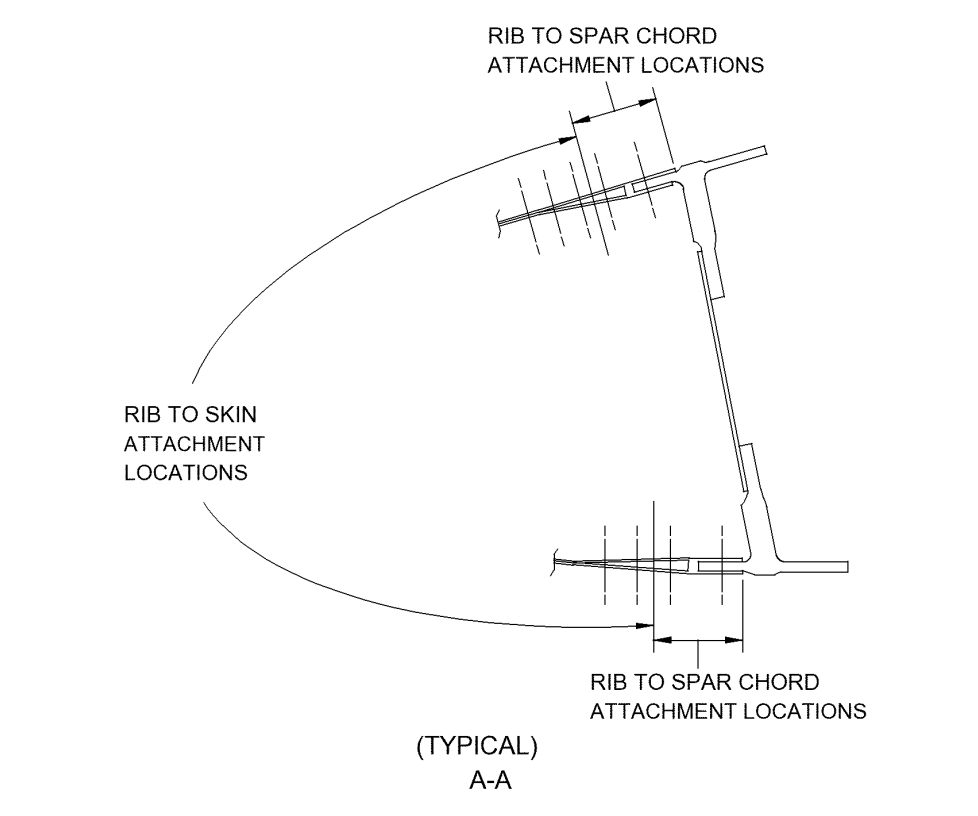
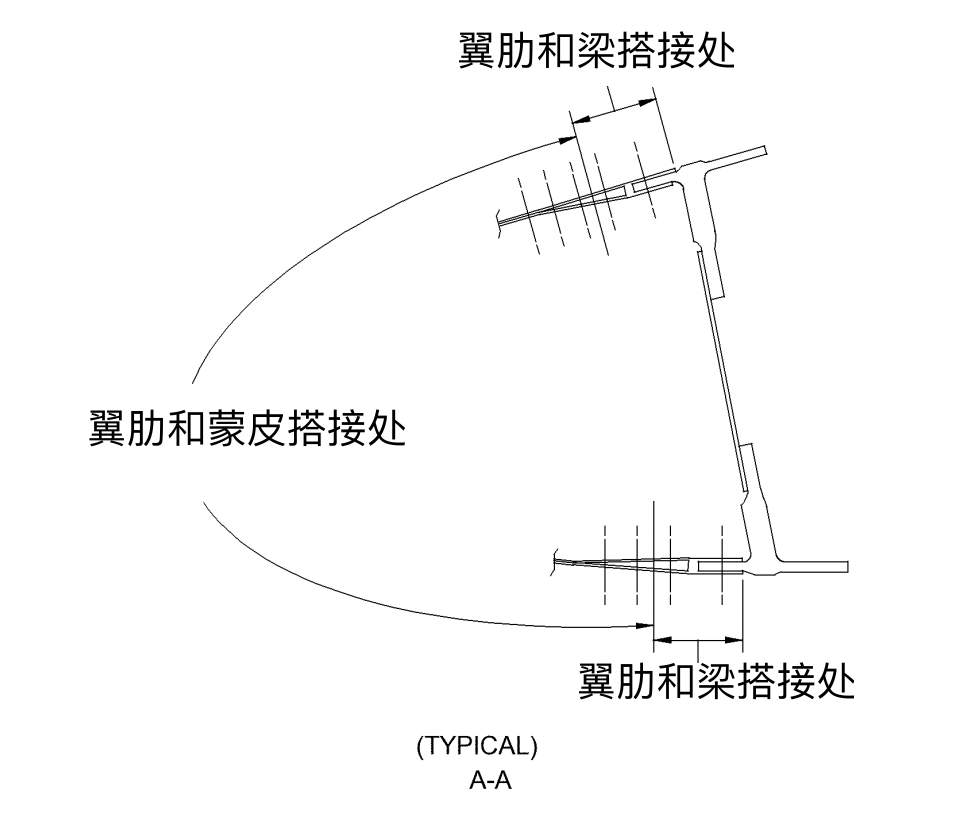
stab finish initially

Changed region(s): [[0.5828, 0.7966, 0.8896, 0.8885], [0.092, 0.4902, 0.4294, 0.6127], [0.4601, 0.0306, 0.7975, 0.0919]]

diff --git a/stablizer.2.html b/stablizer.2.html
@@ -76,6 +76,9 @@
         </div>
     </div>
 
+    <div class="cell_desc">参考：</div>
+    <img src="./images/stablizer/stab-4.png" width="100%" alt="">
+
     <div class="weui-btn-area">
         <a class="weui-btn weui-btn_primary" href="javascript:"  id="checkBtn">检查结果</a>
     </div>
@@ -84,51 +87,73 @@
         <div class="js_dialog" id="area0-dialog" style="opacity: 0; display: none;">
             <div class="weui-mask"></div>
             <div class="weui-dialog">
-                <div class="weui-dialog__bd">AREA0</div>
+                <div class="weui-dialog__bd">超标</div>
                 <div class="weui-dialog__ft">
                     <a href="javascript:;" class="weui-dialog__btn weui-dialog__btn_primary">确认</a>
                 </div>
             </div>
         </div>
         <!--END dialog0-->
-        <!--BEGIN dialog0-->
-        <div class="js_dialog" id="area1-dialog" style="opacity: 0; display: none;">
+        <!--BEGIN dialog1-->
+        <div class="js_dialog" id="area1-good-dialog" style="opacity: 0; display: none;">
             <div class="weui-mask"></div>
             <div class="weui-dialog">
-                <div class="weui-dialog__bd">AREA1</div>
+                <div class="weui-dialog__bd">位于AREA1，且符合标准，可以直接办理允许损伤</div>
                 <div class="weui-dialog__ft">
                     <a href="javascript:;" class="weui-dialog__btn weui-dialog__btn_primary">确认</a>
                 </div>
             </div>
         </div>
-        <!--END dialog0-->
-        <!--BEGIN dialog0-->
-        <div class="js_dialog" id="area2-dialog" style="opacity: 0; display: none;">
+        <!--END dialog1-->
+        <!--BEGIN dialog1-->
+        <div class="js_dialog" id="area1-bad-dialog" style="opacity: 0; display: none;">
             <div class="weui-mask"></div>
             <div class="weui-dialog">
-                <div class="weui-dialog__bd">AREA2</div>
+                <div class="weui-dialog__bd">位于AREA1，但不符合标准，需要依据51-70-01填充凹坑</div>
                 <div class="weui-dialog__ft">
                     <a href="javascript:;" class="weui-dialog__btn weui-dialog__btn_primary">确认</a>
                 </div>
             </div>
         </div>
-        <!--END dialog0-->
-        <!--BEGIN dialog0-->
+        <!--END dialog1-->
+        <!--BEGIN dialog2-->
+        <div class="js_dialog" id="area2-good-dialog" style="opacity: 0; display: none;">
+            <div class="weui-mask"></div>
+            <div class="weui-dialog">
+                <div class="weui-dialog__bd">位于AREA2，如果可以在5000飞行小时或18个月内可以修复，办理允许损伤</div>
+                <div class="weui-dialog__ft">
+                    <a href="javascript:;" class="weui-dialog__btn weui-dialog__btn_primary">确认</a>
+                </div>
+            </div>
+        </div>
+        <!--END dialog2-->
+        <!--BEGIN dialog2-->
+        <div class="js_dialog" id="area2-bad-dialog" style="opacity: 0; display: none;">
+            <div class="weui-mask"></div>
+            <div class="weui-dialog">
+                <div class="weui-dialog__bd">位于AREA2，但不符合标准，需要依据51-70-01填充凹坑</div>
+                <div class="weui-dialog__ft">
+                    <a href="javascript:;" class="weui-dialog__btn weui-dialog__btn_primary">确认</a>
+                </div>
+            </div>
+        </div>
+        <!--END dialog2-->
+        <!--BEGIN dialog3-->
         <div class="js_dialog" id="area3-dialog" style="opacity: 0; display: none;">
             <div class="weui-mask"></div>
             <div class="weui-dialog">
-                <div class="weui-dialog__bd">AREA3</div>
+                <div class="weui-dialog__bd">位于AREA3，需要做以下处理，才可以办理保留：<br/>1.依据51-70-01填补凹坑<br/>使用3M-436胶带密封<br/>3.每400飞行小时检查一次，5000飞行小时或者18个月永久修复</div>
                 <div class="weui-dialog__ft">
                     <a href="javascript:;" class="weui-dialog__btn weui-dialog__btn_primary">确认</a>
                 </div>
             </div>
         </div>
-        <!--END dialog0-->
+        <!--END dialog3-->
         <!--BEGIN dialog0-->
         <div class="js_dialog" id="area4-dialog" style="opacity: 0; display: none;">
             <div class="weui-mask"></div>
             <div class="weui-dialog">
-                <div class="weui-dialog__bd">AREA4</div>
+                <div class="weui-dialog__bd">位于AREA4，需要做以下处理，才可以办理保留：</div>
                 <div class="weui-dialog__ft">
                     <a href="javascript:;" class="weui-dialog__btn weui-dialog__btn_primary">确认</a>
                 </div>

diff --git a/js/stab-on-rib.2.js b/js/stab-on-rib.2.js
@@ -2,8 +2,10 @@
 $(function(){
 
     var $area0Dialog = $('#area0-dialog');
-    var $area1Dialog = $('#area1-dialog');
-    var $area2Dialog = $('#area2-dialog');
+    var $area1GoodDialog = $('#area1-good-dialog');
+    var $area1BadDialog = $('#area1-bad-dialog');
+    var $area2GoodDialog = $('#area2-good-dialog');
+    var $area2BadDialog = $('#area2-bad-dialog');
     var $area3Dialog = $('#area3-dialog');
     var $area4Dialog = $('#area4-dialog');
     
@@ -38,10 +40,18 @@ $(function(){
         console.log("长度："+$length+"英寸\n宽度："+$width+"英寸\n深度："+$depth+"英寸");
         if(($length>=0&&$length<=3)&&($depth<=0.01*$length+0.05)){
             console.log("AREA1");
-            $area1Dialog.fadeIn(200);
+            if($width/$depth >=30){
+                $area1GoodDialog.fadeIn(200);
+            }else{
+                $area1BadDialog.fadeIn(200);
+            }   
         }else if((($length>3&&$length<=6)&&($depth<=1/150*$length+0.06))||(($length>6&&$length<=8)&&($depth<=0.1))){
             console.log("AREA2");
-            $area2Dialog.fadeIn(200);
+            if($width/$depth >=30){
+                $area2GoodDialog.fadeIn(200);
+            }else{
+                $area2BadDialog.fadeIn(200);
+            }  
         }else if( (($length>=0&&$length<=2)&&($depth<=0.5)) || (($length>2&&$length<=6)&&($depth <= (7-$length)/10) )){
             console.log("AREA3");
             $area3Dialog.fadeIn(200);
